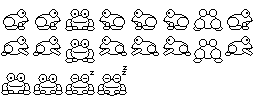
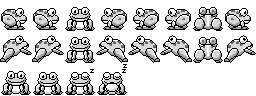
g

diff --git a/components/CursorPet.tsx b/components/CursorPet.tsx
@@ -1,12 +1,13 @@
 "use client";
 
 import { useEffect, useRef } from "react";
-import type { PetSettings } from "../lib/profile-settings";
+import type { PetSettings, PetType } from "../lib/profile-settings";
 import { Snake, snakeSide } from "./snake";
 
 // A pixel pet that runs after the cursor and settles down when it catches up.
 //
 //   cat    sprite sheet /public/pet/frames.png (256x128, 32px cells)
+//   frog   sprite sheet /public/pet/frog.png (256x96, 8x3 grid of 32px cells)
 //   snake  drawn live by ./snake.ts, so it can be any length
 //
 //   scope="page"  fixed to the viewport, follows the cursor anywhere
@@ -14,7 +15,6 @@ import { Snake, snakeSide } from "./snake";
 //                 overflow: hidden) and follows the cursor over that parent.
 //                 Used for the preview in the dashboard.
 
-const SHEET_URL = "/pet/frames.png";
 const CELL = 32; // the cat's canvas is one 32x32 cell; the sprite is centred in it
 const BASE_SPEED = 225; // px per second at speed 100%
 const STRIDE_PX = 15; // ground covered per leg swap at 100% size, so legs match the speed
@@ -26,20 +26,49 @@ const BREATHE_MS = 200; // breathing loop, one frame every 200ms
 type Frame = { x: number; y: number; w: number; h: number };
 const frame = (x: number, y: number, w = 32, h = 32): Frame => ({ x, y, w, h });
 
-// Clockwise from "right", so index = round(angle / 45deg)
-const RUN: Frame[][] = [
-  [frame(95, 0, 32, 28), frame(96, 33, 32, 28)], // right
-  [frame(160, 33), frame(162, 62)], // down-right
-  [frame(193, 96), frame(224, 63)], // down
-  [frame(160, 96), frame(128, 96)], // down-left
-  [frame(129, 64, 32, 28), frame(128, 99, 32, 28)], // left
-  [frame(34, 0), frame(33, 30)], // up-left
-  [frame(32, 64), frame(32, 96)], // up
-  [frame(0, 64), frame(0, 96)], // up-right
-];
-const STILL = frame(96, 96);
-const SIT = frame(96, 63);
-const BREATHE = [frame(64, 0), frame(64, 32)];
+type Sprites = {
+  url: string;
+  /** 8 directions, clockwise from "right" so index = round(angle / 45deg), 2 leg frames each */
+  run: Frame[][];
+  still: Frame;
+  sit: Frame;
+  breathe: Frame[];
+  /** Multiplier on STRIDE_PX. Hoppers cover more ground per frame swap. */
+  stride: number;
+};
+
+const CAT: Sprites = {
+  url: "/pet/frames.png",
+  run: [
+    [frame(95, 0, 32, 28), frame(96, 33, 32, 28)], // right
+    [frame(160, 33), frame(162, 62)], // down-right
+    [frame(193, 96), frame(224, 63)], // down
+    [frame(160, 96), frame(128, 96)], // down-left
+    [frame(129, 64, 32, 28), frame(128, 99, 32, 28)], // left
+    [frame(34, 0), frame(33, 30)], // up-left
+    [frame(32, 64), frame(32, 96)], // up
+    [frame(0, 64), frame(0, 96)], // up-right
+  ],
+  still: frame(96, 96),
+  sit: frame(96, 63),
+  breathe: [frame(64, 0), frame(64, 32)],
+  stride: 1,
+};
+
+// The frog sheet is a clean grid:
+//   rows 0 and 1  crouch and leap frames for each of the 8 directions
+//   row 2         still, sit, breathe 0, breathe 1
+const cell = (col: number, row: number) => frame(col * 32, row * 32);
+const FROG: Sprites = {
+  url: "/pet/frog.png",
+  run: Array.from({ length: 8 }, (_, d) => [cell(d, 0), cell(d, 1)]),
+  still: cell(0, 2),
+  sit: cell(1, 2),
+  breathe: [cell(2, 2), cell(3, 2)],
+  stride: 1.5,
+};
+
+const SPRITES: Record<Exclude<PetType, "snake">, Sprites> = { cat: CAT, frog: FROG };
 
 /** Recolours the white part of the sprite. The black outline is kept. */
 function tint(img: HTMLImageElement, color: string): HTMLCanvasElement {
@@ -124,11 +153,19 @@ export default function CursorPet({
     source.addEventListener("pointermove", onMove as EventListener);
     if (host) host.addEventListener("pointerleave", onLeave);
 
-    // The cat's sprite sheet, loaded once; `sheet` is the tinted copy we draw from
+    // Sprite sheets load the first time a pet needs them; `sheet` is the tinted
+    // copy of the current pet's sheet that we draw from
+    const images: Record<string, HTMLImageElement> = {};
+    const imageFor = (url: string) => {
+      if (!images[url]) {
+        const img = new Image();
+        img.src = url;
+        images[url] = img;
+      }
+      return images[url];
+    };
     let sheet: HTMLCanvasElement | null = null;
-    let builtColor = "";
-    const catImg = new Image();
-    catImg.src = SHEET_URL;
+    let builtKey = "";
 
     const snake = new Snake();
 
@@ -221,33 +258,37 @@ export default function CursorPet({
         return;
       }
 
-      // ---- Cat: pick a frame from the sprite sheet ----
+      // ---- Sprite pets: pick a frame from the sprite sheet ----
       setSide(CELL);
+      const sp = SPRITES[s.type === "snake" ? "cat" : s.type];
 
-      // (Re)build the tinted sheet when the colour changes
-      if (catImg.complete && catImg.naturalWidth > 0 && builtColor !== s.color) {
-        sheet = tint(catImg, s.color);
-        builtColor = s.color;
+      // (Re)build the tinted sheet when the colour or the pet changes. Until the
+      // new sheet is ready we draw nothing rather than the old pet's frames.
+      const sheetKey = `${s.type}|${s.color}`;
+      const img = imageFor(sp.url);
+      if (img.complete && img.naturalWidth > 0 && builtKey !== sheetKey) {
+        sheet = tint(img, s.color);
+        builtKey = sheetKey;
         lastKey = "";
       }
-      if (!sheet) return;
+      if (!sheet || builtKey !== sheetKey) return;
 
       let f: Frame;
       let key: string;
       if (running) {
-        // Swap legs once per stride, so a slow cat has slow legs
-        if (travel >= STRIDE_PX * (s.size / 100) && ts - lastRunSwap >= MIN_RUN_FRAME_MS) {
+        // Swap legs once per stride, so a slow pet has slow legs
+        if (travel >= STRIDE_PX * sp.stride * (s.size / 100) && ts - lastRunSwap >= MIN_RUN_FRAME_MS) {
           runFrame ^= 1;
           lastRunSwap = ts;
           travel = 0;
         }
-        f = RUN[dir][runFrame];
+        f = sp.run[dir][runFrame];
         key = `r${dir}${runFrame}`;
       } else {
         const t = ts - idleSince;
-        if (t < STILL_MS) f = STILL;
-        else if (t < STILL_MS + SIT_MS) f = SIT;
-        else f = BREATHE[Math.floor((t - STILL_MS - SIT_MS) / BREATHE_MS) % 2];
+        if (t < STILL_MS) f = sp.still;
+        else if (t < STILL_MS + SIT_MS) f = sp.sit;
+        else f = sp.breathe[Math.floor((t - STILL_MS - SIT_MS) / BREATHE_MS) % 2];
         key = `i${f.x},${f.y}`;
       }
 

diff --git a/lib/profile-settings.ts b/lib/profile-settings.ts
@@ -180,9 +180,10 @@ export function tooltipVars(t: TooltipSettings): Record<string, string> {
 
 // ---------- Cursor pet (the little sprite that chases the visitor's mouse) ----------
 
-/** Which pet. The cat is a sprite sheet (public/pet/frames.png); the snake is
- *  drawn live in components/snake.ts so it can be any length. */
-export const PET_TYPES = ["cat", "snake"] as const;
+/** Which pet. Cat and frog are sprite sheets in public/pet/; the snake is
+ *  drawn live in components/snake.ts so it can be any length. The order here
+ *  is the order of the dropdown. */
+export const PET_TYPES = ["cat", "frog", "snake"] as const;
 export type PetType = (typeof PET_TYPES)[number];
 
 export type PetSettings = {
